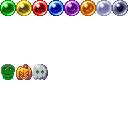
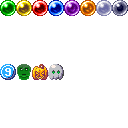
it's a disastah (popping balls is still WIP)

Changed region(s): [[0.0, 0.5, 0.5, 0.625]]

diff --git a/02-Bubble/BallMatrix.cpp b/02-Bubble/BallMatrix.cpp
@@ -118,10 +118,7 @@ bool BallMatrix::checkCollision(Ball * b)
 		collided = _ballMatrix[pos.first][pos.second]->checkCollision(b);
 	}
 	if (collided != Ball_InMatrix::OUTSIDE) {
-		Ball_InMatrix * bm = new Ball_InMatrix(_shaderProgram, b);
-
-		int visibleOffset = _ballMatrix.size() - _visibleMatrixHeight;
-		//if (visibleOffset < 0) visibleOffset = 0;
+		
 		ballPos = posT(pos);
 		if (collided == Ball_InMatrix::BOT_LEFT || collided == Ball_InMatrix::TOP_LEFT) {
 			ballPos.second--;
@@ -138,27 +135,99 @@ bool BallMatrix::checkCollision(Ball * b)
 			if (collided == Ball_InMatrix::LEFT) ballPos.second--;
 			else ballPos.second++;
 		}
-		
-		bm->init(b->getColor(), _minBallCoords + float(_ballSize) * glm::vec2(ballPos.second, ballPos.first - visibleOffset), _minRenderCoords);
-		bm->setOddRow(ballPos.first % 2 != 0);
 
-		_ballMatrix[ballPos.first][ballPos.second] = bm;
-		_connectedMatrix[ballPos.first][ballPos.second] = true;
-		return true;
+		bool success = addBallToMat(ballPos, collided, b->getColor());
+		vector<posT> pop = vector<posT>();
+		checkPopping(ballPos, b->getColor(), pop);
+
+		if (pop.size() >= 3) {
+			for (int i = 0; i < pop.size(); ++i) {
+				pos = pop[i];
+				success = success && popBall(pos); // Animation and control
+			}
+		}
+
+		return success;
 	}
 
 	return false;
 }
 
 //Adds a collided ball into the matrix
-void BallMatrix::addBallToMat(Ball * b, Ball_InMatrix::NeighborBalls pos)
+bool BallMatrix::addBallToMat(posT ballPos, Ball_InMatrix::NeighborBalls collided, unsigned int color)
 {
+	int visibleOffset = _ballMatrix.size() - _visibleMatrixHeight;
+	//if (visibleOffset < 0) visibleOffset = 0;
+
+	_ballMatrix[ballPos.first][ballPos.second]->init(color, _minBallCoords + float(_ballSize) * glm::vec2(ballPos.second, ballPos.first - visibleOffset), _minRenderCoords);
+	_ballMatrix[ballPos.first][ballPos.second]->setOddRow(ballPos.first % 2 != 0);
+
+	posT pos;
 	
+	//TOP LEFT
+	pos = posT(ballPos.first - 1, ballPos.second - 1 + (ballPos.first % 2));
+	if (inMatrix(pos)) {
+		_ballMatrix[ballPos.first][ballPos.second]->addNeighbor(pos, Ball_InMatrix::TOP_LEFT);
+		_ballMatrix[pos.first][pos.second]->addNeighbor(ballPos, Ball_InMatrix::BOT_RIGHT);
+	}
+
+	//TOP RIGHT
+	pos = posT(ballPos.first - 1, ballPos.second + (ballPos.first % 2));
+	if (inMatrix(pos)) {
+		_ballMatrix[ballPos.first][ballPos.second]->addNeighbor(pos, Ball_InMatrix::TOP_RIGHT);
+		_ballMatrix[pos.first][pos.second]->addNeighbor(ballPos, Ball_InMatrix::BOT_LEFT);
+	}
+
+	//LEFT
+	pos = posT(ballPos.first, ballPos.second - 1);
+	if (inMatrix(pos)) {
+		_ballMatrix[ballPos.first][ballPos.second]->addNeighbor(pos, Ball_InMatrix::LEFT);
+		_ballMatrix[pos.first][pos.second]->addNeighbor(ballPos, Ball_InMatrix::RIGHT);
+	}
+
+	//RIGHT
+	pos = posT(ballPos.first, ballPos.second + 1);
+	if (inMatrix(pos)) {
+		_ballMatrix[ballPos.first][ballPos.second]->addNeighbor(pos, Ball_InMatrix::RIGHT);
+		_ballMatrix[pos.first][pos.second]->addNeighbor(ballPos, Ball_InMatrix::LEFT);
+	}
+
+	//BOTTOM LEFT
+	pos = posT(ballPos.first + 1, ballPos.second - 1 + (ballPos.first % 2));
+	if (inMatrix(pos)) {
+		_ballMatrix[ballPos.first][ballPos.second]->addNeighbor(pos, Ball_InMatrix::BOT_LEFT);
+		_ballMatrix[pos.first][pos.second]->addNeighbor(ballPos, Ball_InMatrix::TOP_RIGHT);
+	}
+
+	//BOTTOM RIGHT
+	pos = posT(ballPos.first + 1, ballPos.second + (ballPos.first % 2));
+	if (inMatrix(pos)) {
+		_ballMatrix[ballPos.first][ballPos.second]->addNeighbor(pos, Ball_InMatrix::BOT_RIGHT);
+		_ballMatrix[pos.first][pos.second]->addNeighbor(ballPos, Ball_InMatrix::TOP_LEFT);
+	}
+
+	_connectedMatrix[ballPos.first][ballPos.second] = true;
+
+	return _connectedMatrix[ballPos.first][ballPos.second];
 }
 
 int BallMatrix::ballsLeft()
 {
 	return _ballMatrix.size();
+}
+
+unsigned int BallMatrix::colorsLeftInMatrix()
+{
+	unsigned int res = 0;
+
+	for (int i = 0; i < int(_ballMatrix.size()); ++i) {
+		//Balls
+		for (int j = 0; j < int(_ballMatrix[i].size()); ++j) {
+			if (_connectedMatrix[i][j]) res = res | _ballMatrix[i][j]->getColor();
+		}
+	}
+
+	return res;
 }
 
 Ball_InMatrix * BallMatrix::ballFromColor(int & color)
@@ -244,18 +313,29 @@ std::vector<Ball_InMatrix::posT> BallMatrix::checkBallsAround(const posT &b)
 }
 
 //DESTROY
-list<Ball_InMatrix::posT> BallMatrix::popNeighbors(const posT & b)
+void BallMatrix::checkPopping(const posT & b, const unsigned int & color, std::vector<posT>& pop)
 {
-	list<posT> group = list<posT>(); //checkNeighbors(b);
-
-	while (group.size() > 0) {
-		posT nextBall = group.front();
-		group.pop_front();
-
-		group.merge(_ballMatrix[nextBall.first][nextBall.second]->checkNeighbors());
+	vector<posT> group = _ballMatrix[b.first][b.second]->getNeighbors();
+	
+	for (int i = 0; i < group.size(); ++i) {
+		posT next = group[i];
+		
+		if (_ballMatrix[next.first][next.second]->getColor() & color != 0) {
+			if (std::find(pop.begin(), pop.end(), next) == pop.end()) {
+				//It has not been popped
+				pop.push_back(next);
+				checkPopping(next, _ballMatrix[next.first][next.second]->getColor(), pop);
+			}
+		}
 	}
+}
 
-	return list<posT>();
+bool BallMatrix::popBall(posT & p)
+{
+	_connectedMatrix[p.first][p.second] = false;
+	// Do animations
+
+	return !_connectedMatrix[p.first][p.second];
 }
 
 //Returns true if the position is inside the matrix dimensions and that position contains a valid ball

diff --git a/02-Bubble/BallMatrix.h b/02-Bubble/BallMatrix.h
@@ -23,7 +23,7 @@ public:
 	void render();
 
 	bool checkCollision(Ball * b);
-	void addBallToMat(Ball * b, Ball_InMatrix::NeighborBalls pos);
+	bool addBallToMat(Ball_InMatrix::posT ballPos, Ball_InMatrix::NeighborBalls collided, unsigned int color);
 
 	int ballsLeft();
 	unsigned int colorsLeftInMatrix();
@@ -40,13 +40,13 @@ private:
 	Texture *_spritesheet;
 	ShaderProgram _shaderProgram;
 
-	bool comparePosT(const Ball_InMatrix::posT& a, const Ball_InMatrix::posT& b);
 	Ball_InMatrix * ballFromColor(int &color);
 	void passRowToShown();
 
 	Ball_InMatrix::posT snapToGrid(Ball *b);
 	std::vector<posT> checkBallsAround(const Ball_InMatrix::posT &b);
-	std::list<posT> popNeighbors(const Ball_InMatrix::posT &b);
+	void checkPopping(const posT & b, const unsigned int & color, std::vector<posT>& pop);
+	bool popBall(posT & p);
 	bool inMatrix(const Ball_InMatrix::posT &pos);
 };
 

diff --git a/02-Bubble/Ball_InMatrix.cpp b/02-Bubble/Ball_InMatrix.cpp
@@ -78,17 +78,18 @@ bool Ball_InMatrix::addNeighbor(Ball_InMatrix::posT b, int pos)
 	return false;
 }
 
-list<Ball_InMatrix::posT> Ball_InMatrix::checkNeighbors()
+std::vector<Ball_InMatrix::posT> Ball_InMatrix::getNeighbors()
 {
-	list<posT> group = list<posT>();
+	vector<posT> group = vector<posT>();
 
 	for (int i = TOP_LEFT; i < OUTSIDE; ++i) {
 		if (neighbors[i] != POS_NULL) {
 			//check if same color, among colors, or bomb
 			group.push_back(neighbors[i]);
 		}
-		return group;
 	}
+
+	return group;
 }
 
 list<Ball_InMatrix*> Ball_InMatrix::getDisconnected()

diff --git a/02-Bubble/Ball_InMatrix.h b/02-Bubble/Ball_InMatrix.h
@@ -24,7 +24,7 @@ public:
 
 	NeighborBalls checkCollision(Ball * b);
 	bool addNeighbor(posT b, int pos);
-	std::list<posT> checkNeighbors();
+	std::vector<posT> getNeighbors();
 	std::list<Ball_InMatrix*> getDisconnected();
 
 private:
